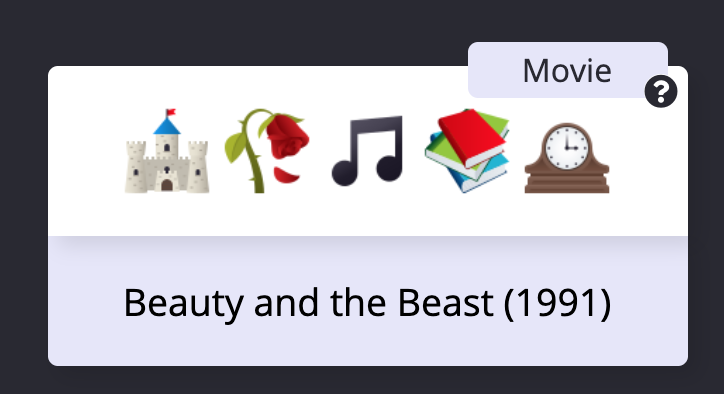
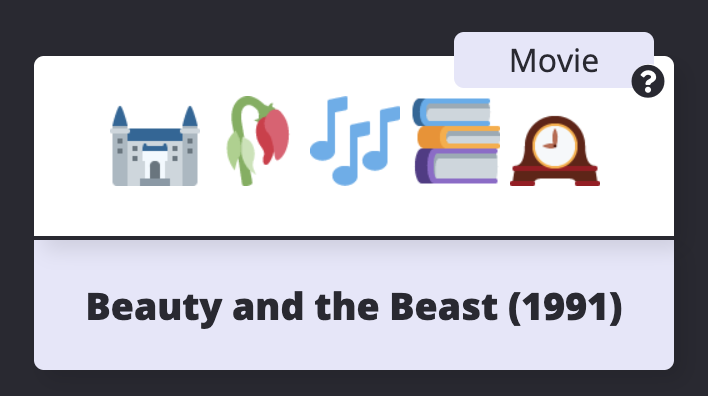
update README with new screenshots

Changed region(s): [[0.0311, 0.0609, 0.9633, 0.9442], [0.1243, 0.731, 0.9011, 0.8528]]

diff --git a/README.md b/README.md
@@ -1,6 +1,6 @@
 # EmojiScreen 📺
 
-![Screenshot of Emojiscreen homepage]()
+![Screenshot of Emojiscreen homepage](readme/emoji-screen.png)
 
 [EmojiScreen](https://emojiscreen.com) is a listing of movies, TV shows and musicals depicted through emojis. 
 
@@ -16,7 +16,7 @@ Read below for a detailed overview and walkthrough on how to add an `Emoji Card`
 
 On the website, each `Emoji Card` displays images of the emojis, a hint icon that will show the type (musical, movie or TV show) when the user hovers and the name of the show, which appears when the user clicks on a card. 
 
-![Screenshot of Beauty and the Beast Emoji Card]()
+![Screenshot of Beauty and the Beast Emoji Card](readme/emoji-card.png)
 
 In the code, each `Emoji Card` consists of the following JSON:
 
